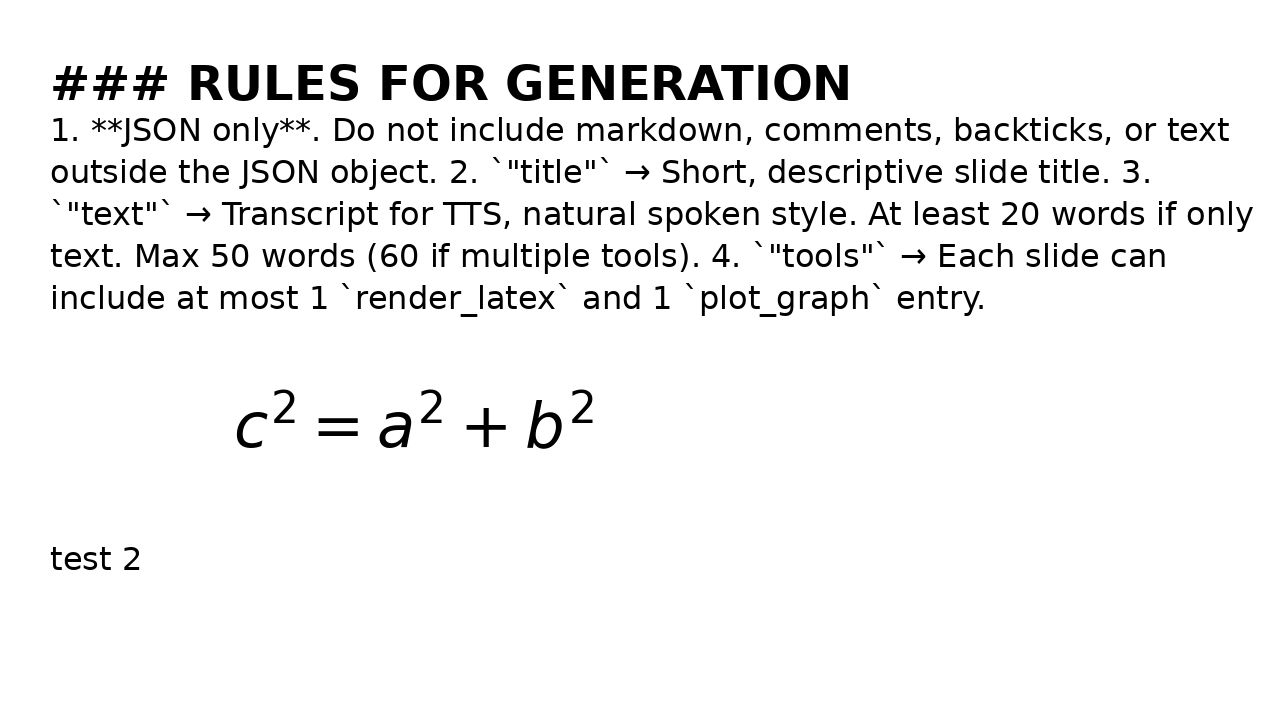
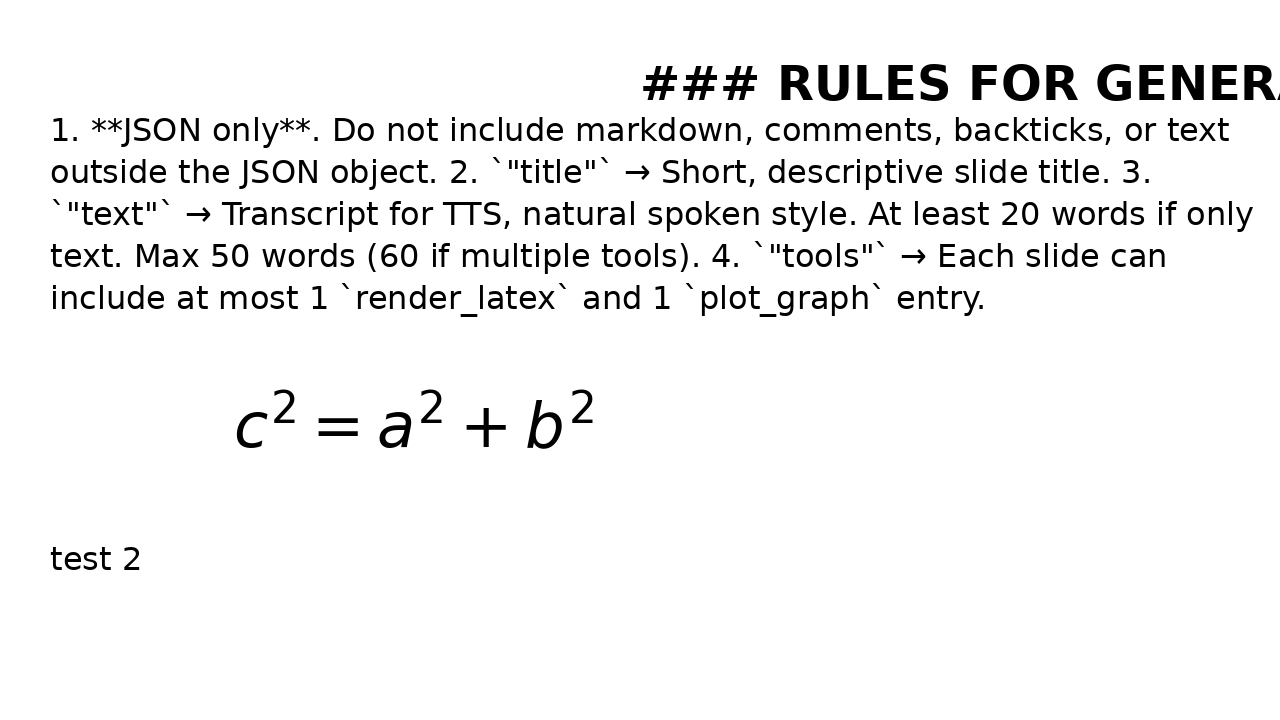
fixed some bugs

Changed region(s): [[0.0312, 0.0917, 1.0, 0.1528]]

diff --git a/src/canvas/canvas.py b/src/canvas/canvas.py
@@ -1,5 +1,5 @@
 from PIL import Image,ImageDraw, ImageFont
-from utils import WrapText
+from utils import WrapText, GetX
 import matplotlib.pyplot as plt
 import io
 
@@ -80,6 +80,7 @@ class Slide:
             y = self.last_cursor_y + self.line_spacing  # place below last object
         if not text:
             print("AddWrapedText: no intput text provided")
+        
             
         max_width = self.width - self.text_padding
         lines = WrapText(draw_viewer=self.draw, text=text, font=font, max_width=max_width)
@@ -98,19 +99,23 @@ class Slide:
 
     # just wrappers so no need for check and such things
     # add title text
-    def AddTitleText(self, x:int, y:int=None, text:str = "", color:str = "black", max_width:int = None):
+    def AddTitleText(self, x, y:int=None, text:str = "", color:str = "black", max_width:int = None):
+        x = GetX(self.width,x)
         slide.AddWrapedText(x, y, text, color, max_width, font=self.title_font)
+        
     # add body text
-    def AddBodyText(self, x:int, y:int=None, text:str = "", color:str = "black", max_width:int = None):
+    def AddBodyText(self, x, y:int=None, text:str = "", color:str = "black", max_width:int = None):
+        x = GetX(self.width,x)
         slide.AddWrapedText(x, y, text, color, max_width, font=self.body_font)
         
     # adds a equation or so into the image
-    def AddLatexText(self, x:int, y:int = None, latex_string:str = "", scale:float = 1.0):
+    def AddLatexText(self, x, y:int = None, latex_string:str = "", scale:float = 1.0):
         # check if it overlaps
         if y is None or y <= self.last_cursor_y:
             y = self.last_cursor_y + self.line_spacing
         if not latex_string:
             print("AddLatexText: no intput text provided")
+        x = GetX(self.width,x)
 
         # try used for all as if a invalid input for the matplotlib will throw a big error somewhere
         try:
@@ -138,8 +143,8 @@ body = """
 """
 
 slide = Slide("akram")
-slide.AddTitleText(50, text=title)
-slide.AddBodyText(50, text=body)
-slide.AddLatexText(50, 250, "c^2 = a^2 + b^2", scale=1.5)
-slide.AddBodyText(50, text="test 2")
+slide.AddTitleText("middle", text=title)
+slide.AddBodyText("left", text=body)
+slide.AddLatexText("left", latex_string="c^2 = a^2 + b^2", scale=1.5)
+slide.AddBodyText("left", text="test 2")
 slide.Save()

diff --git a/src/canvas/utils.py b/src/canvas/utils.py
@@ -26,3 +26,17 @@ def WrapText(draw_viewer, text, font, max_width):
         lines.append(cur_line)
     
     return lines
+
+def GetX(width:int, placement:str):
+    horizental_padding = 50
+    
+    if placement == "middle":
+        return int(width/2)
+    
+    if placement == "left":
+        return int(horizental_padding)
+    
+    if placement == "right":
+        return int(width-horizental_padding)
+    
+    return 50
